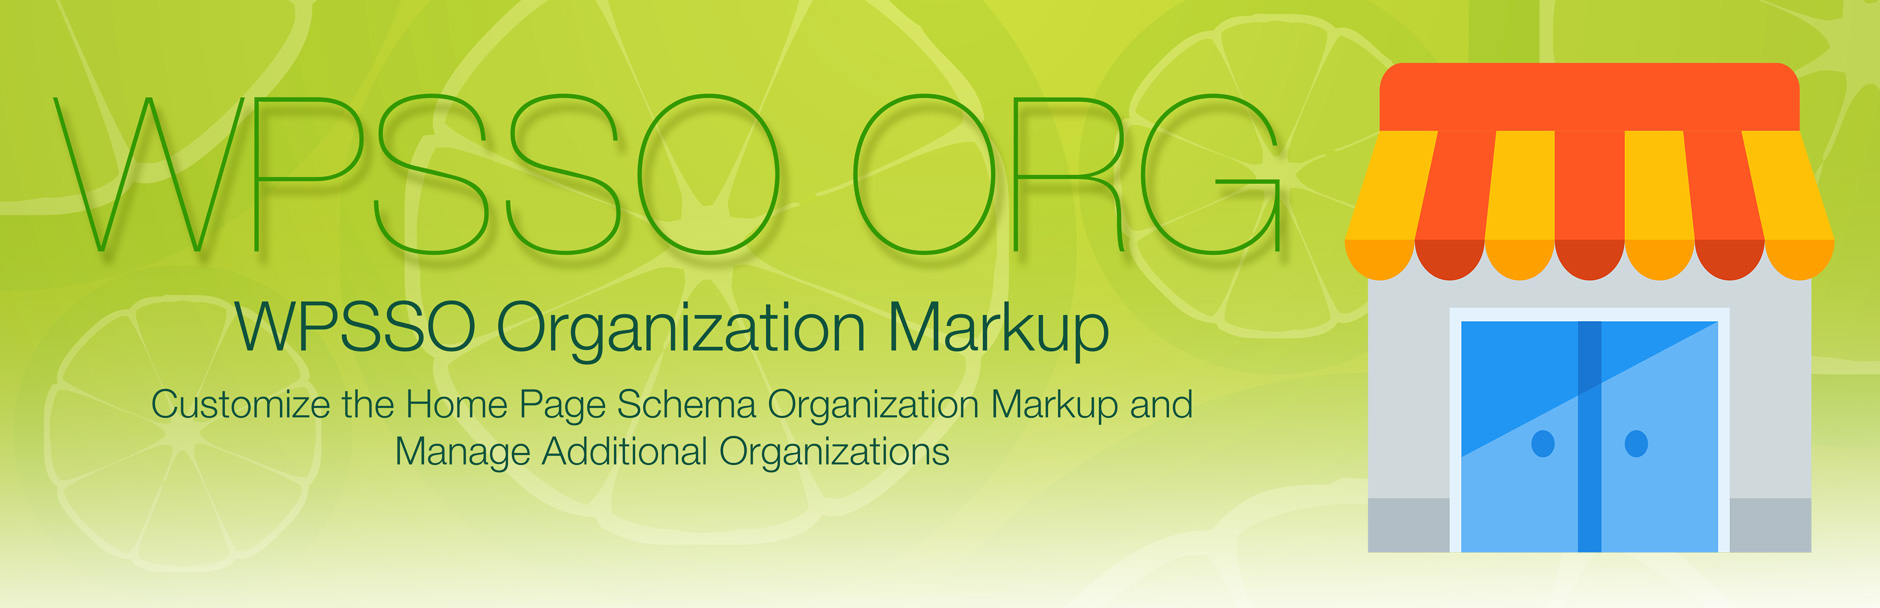
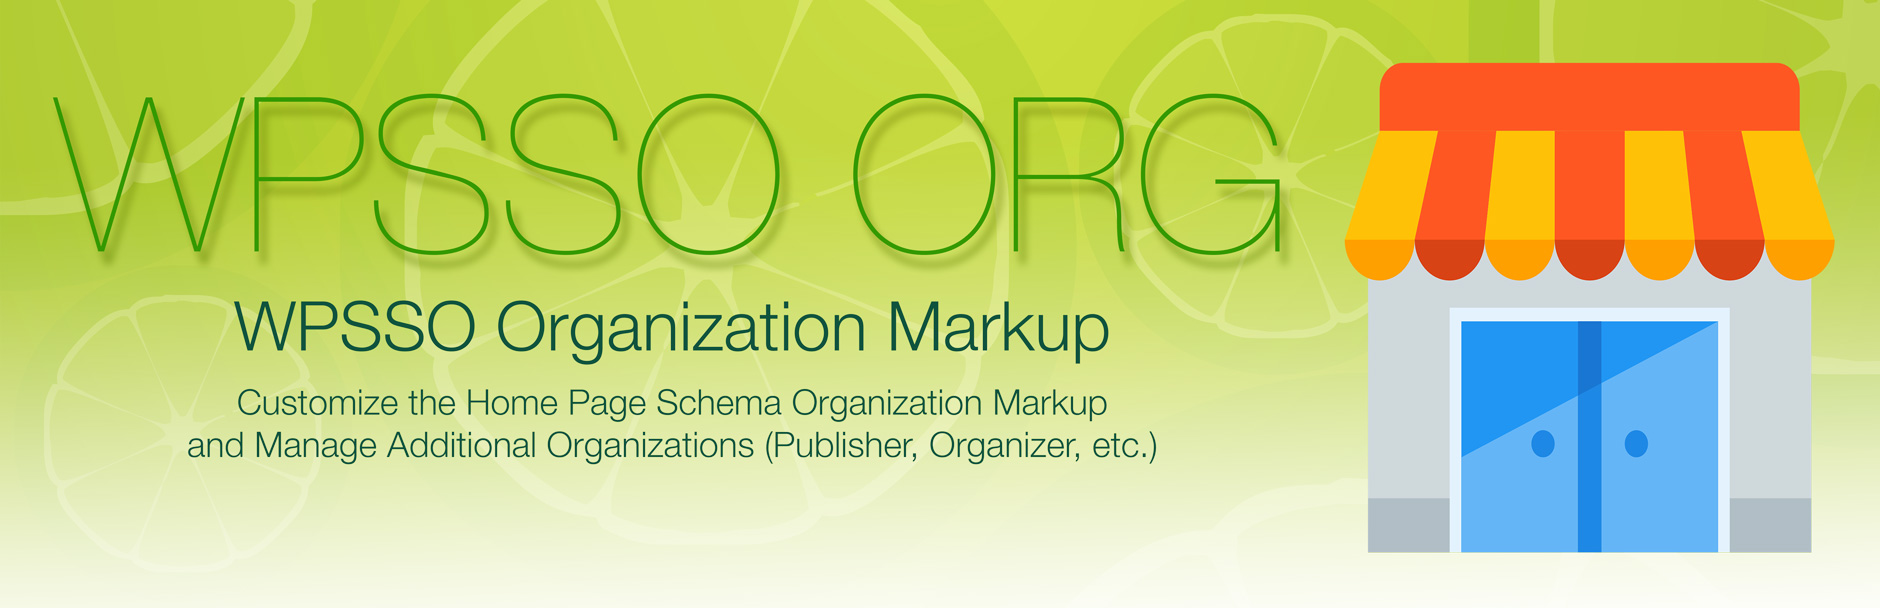
non-essential support files (documentation and assets)

diff --git a/index.html b/index.html
@@ -29,7 +29,7 @@
 
 <table>
 <tr><th align="right" valign="top" nowrap>Plugin Name</th><td>WPSSO Organization Markup</td></tr>
-<tr><th align="right" valign="top" nowrap>Summary</th><td>Customize the home page Schema Organization markup and manage additional Organizations (publisher, organizer, etc.).</td></tr>
+<tr><th align="right" valign="top" nowrap>Summary</th><td>Customize the Home Page Schema Organization Markup and Manage Additional Organizations (Publisher, Organizer, etc.).</td></tr>
 <tr><th align="right" valign="top" nowrap>Stable Version</th><td>2.4.0</td></tr>
 <tr><th align="right" valign="top" nowrap>Requires PHP</th><td>5.6 or newer</td></tr>
 <tr><th align="right" valign="top" nowrap>Requires WordPress</th><td>4.2 or newer</td></tr>
